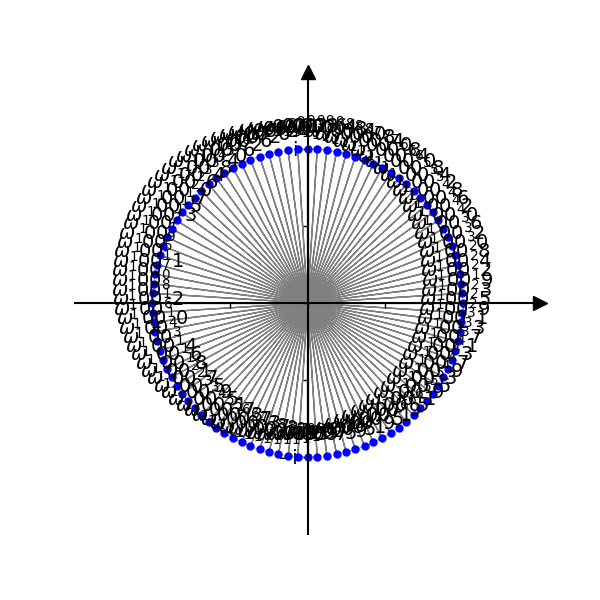
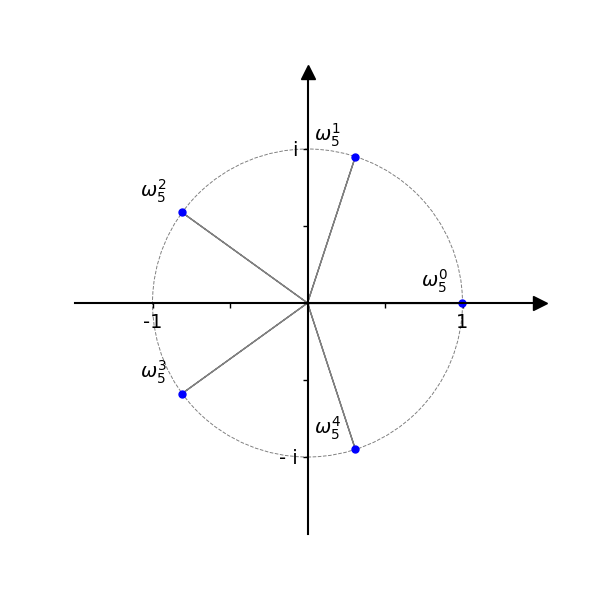
Changed n in root of unity image to 5

Changed region(s): [[0.18, 0.18, 0.84, 0.78]]

diff --git a/roots_of_unity.py b/roots_of_unity.py
@@ -4,7 +4,7 @@ from matplotlib.patches import Circle
 
 class RootsOfUnity:
     def __init__(self):
-        self.n = 100
+        self.n = 5
         self.roots = np.roots( [1,] + [0,]*(self.n-1) + [-1,] )
     def create_view(self):
         fig, ax = plt.subplots(figsize=(6, 6))
